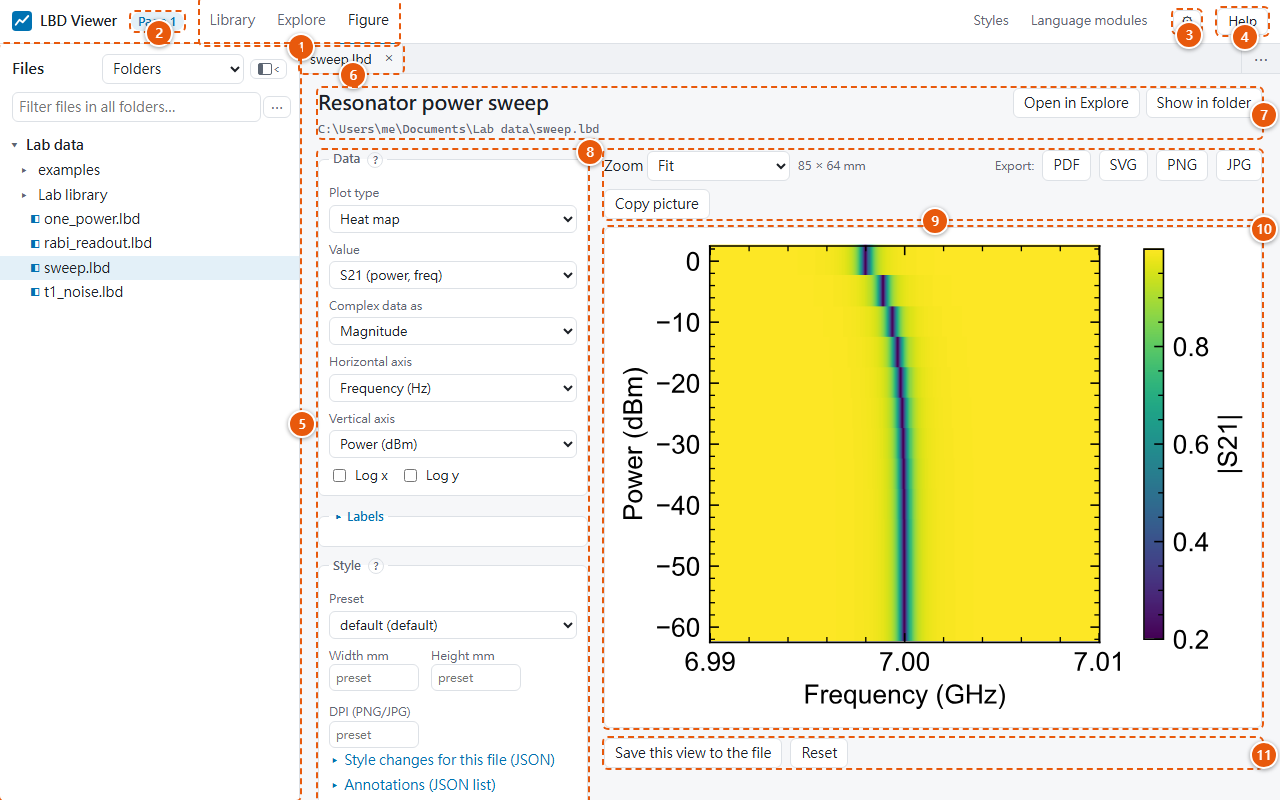
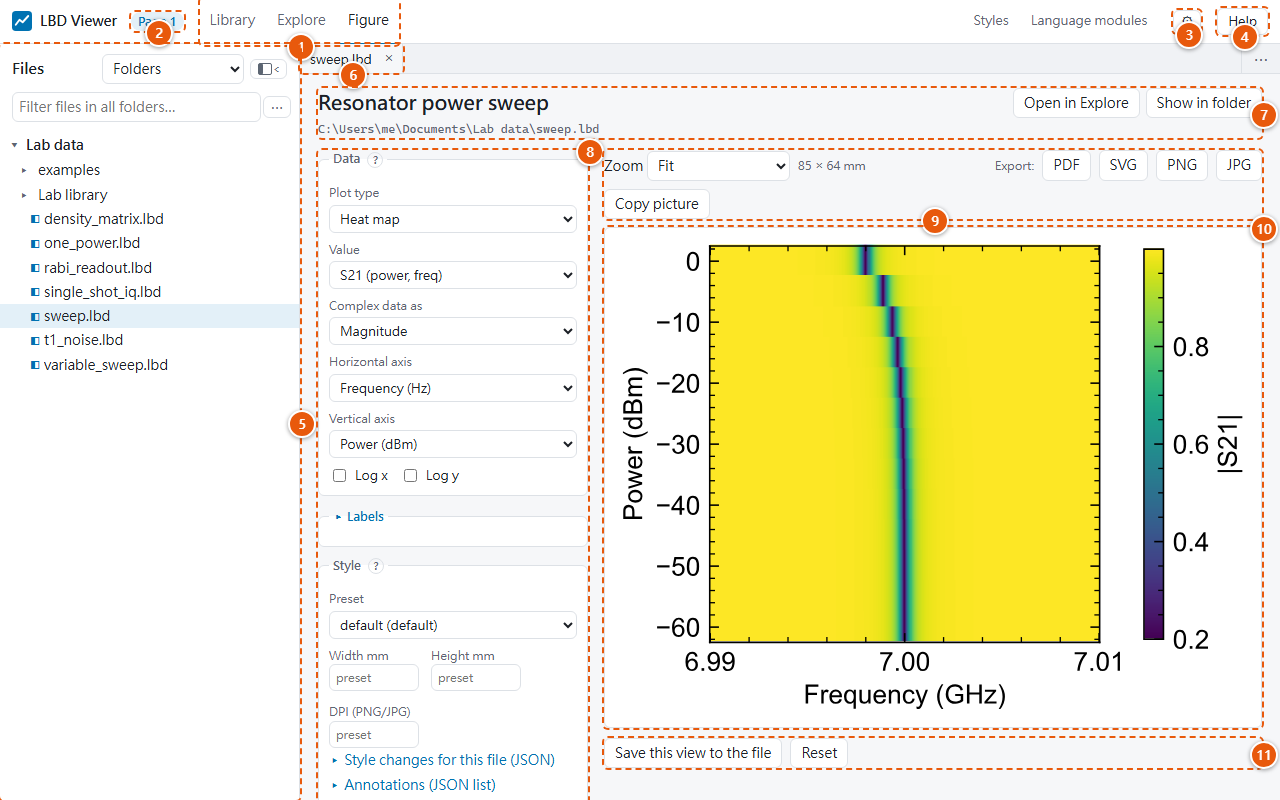
Docs screenshots for plan 15

Changed region(s): [[0.0, 0.25, 0.25, 0.4688]]

diff --git a/scripts/make_screenshots.py b/scripts/make_screenshots.py
@@ -136,6 +136,7 @@ def make_files(folder: Path) -> None:
     mock_values.rabi(small=False).save(folder / "rabi_readout.lbd")
     mock_values.density_matrix(small=False).save(folder / "density_matrix.lbd")
     mock_values.single_shot_iq(small=False).save(folder / "single_shot_iq.lbd")
+    mock_values.variable_sweep(small=False).save(folder / "variable_sweep.lbd")
 
     # a library of measurements over two years (the Library's list): the viewer tests' mock library
     import mock_library
@@ -355,6 +356,16 @@ def bars3d(page: Page, url: str, ctx) -> None:
     page.locator("main:not([hidden]) .controls input[type=range]").fill("7")      # a step with an imaginary part
     page.wait_for_timeout(2000)
     save(page, VIEWER_IMG / "bars3d.png", region(page, "main:not([hidden]) .explore-stage", pad=0))
+
+
+@shot
+def explore_group_map(page: Page, url: str, ctx) -> None:
+    fresh(page, url, "Explore")
+    page.locator(".row-label", has_text="variable_sweep.lbd").first.dblclick()
+    area = page.locator("main:not([hidden])")
+    area.get_by_label("Plot type").select_option("heatmap")
+    page.wait_for_timeout(2000)
+    save(page, VIEWER_IMG / "explore_group_map.png", region(page, "main:not([hidden]) .explore-stage", pad=0))
 
 
 @shot

diff --git a/docs/viewer/explore.md b/docs/viewer/explore.md
@@ -171,6 +171,8 @@ greyed, and says why.
 
 ### Map
 
+![A variable sweep as a map, each stored point in its own cell](img/explore_group_map.png)
+
 A value on two swept axes. A **variable sweep** (an axis group, where the inner points depend on the
 outer ones) is a map too, with its real coordinates:
 
@@ -256,6 +258,8 @@ shape are available, as on Matrix.
 
 ### Histogram
 
+![A histogram with one outline per state](img/explore_histogram.png)
+
 Counts how many numbers fall in each bin: the value along x, the count along y. It answers "how are
 these numbers spread?", for example single-shot readout, where the shots of each prepared state make
 a peak of their own.
@@ -303,6 +307,8 @@ series; it waits until the count is done. **Open in Figure** takes these choices
 histograms of the same quantity follow each other's zoom along x.
 
 ### Scatter
+
+![A scatter plot with histograms beside it](img/explore_scatter.png)
 
 A marker per point, for numbers whose relation matters more than their order: one value against
 another, or a complex value in the I/Q plane.
